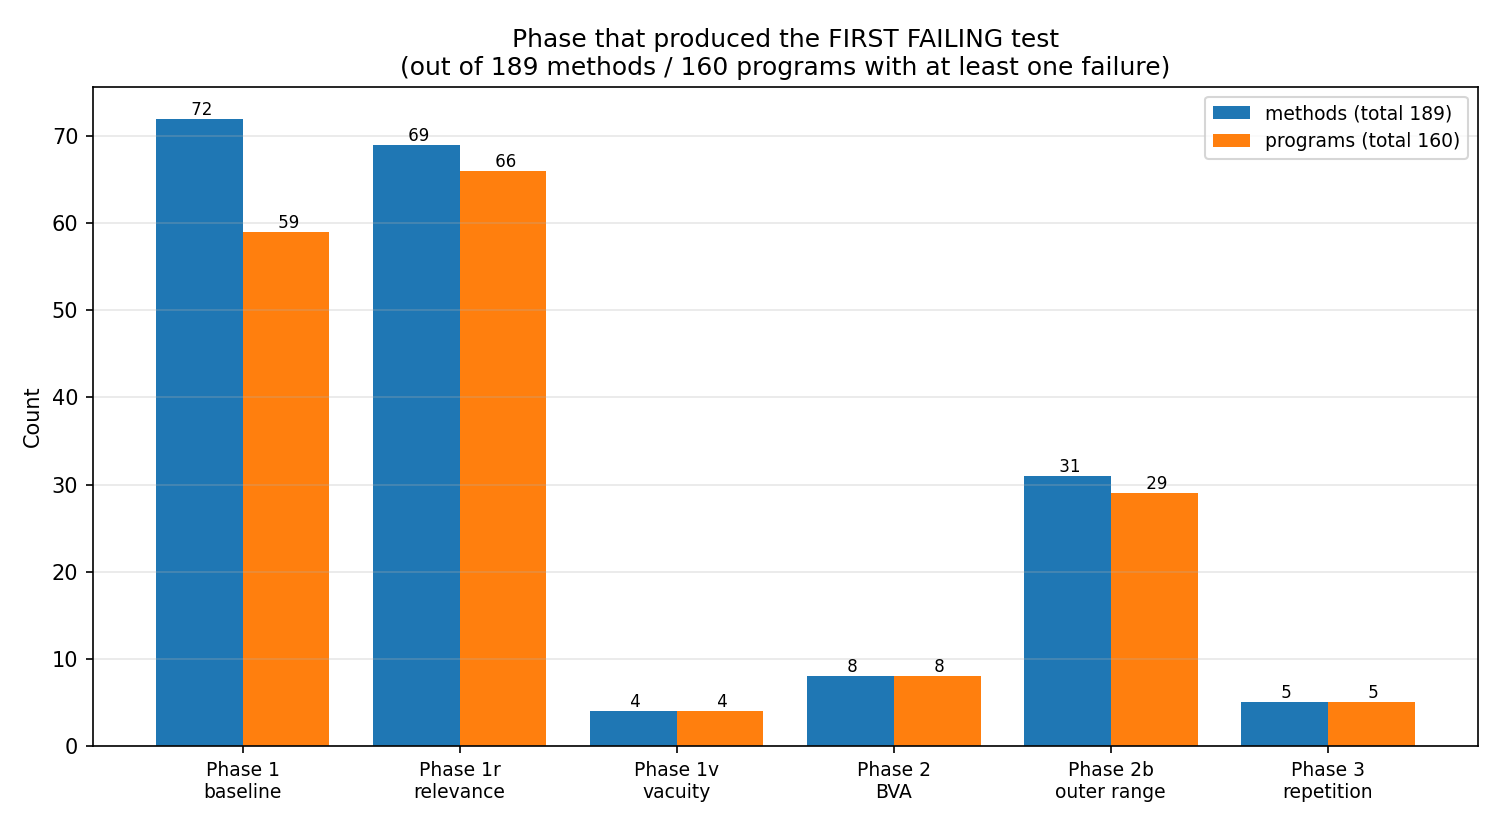
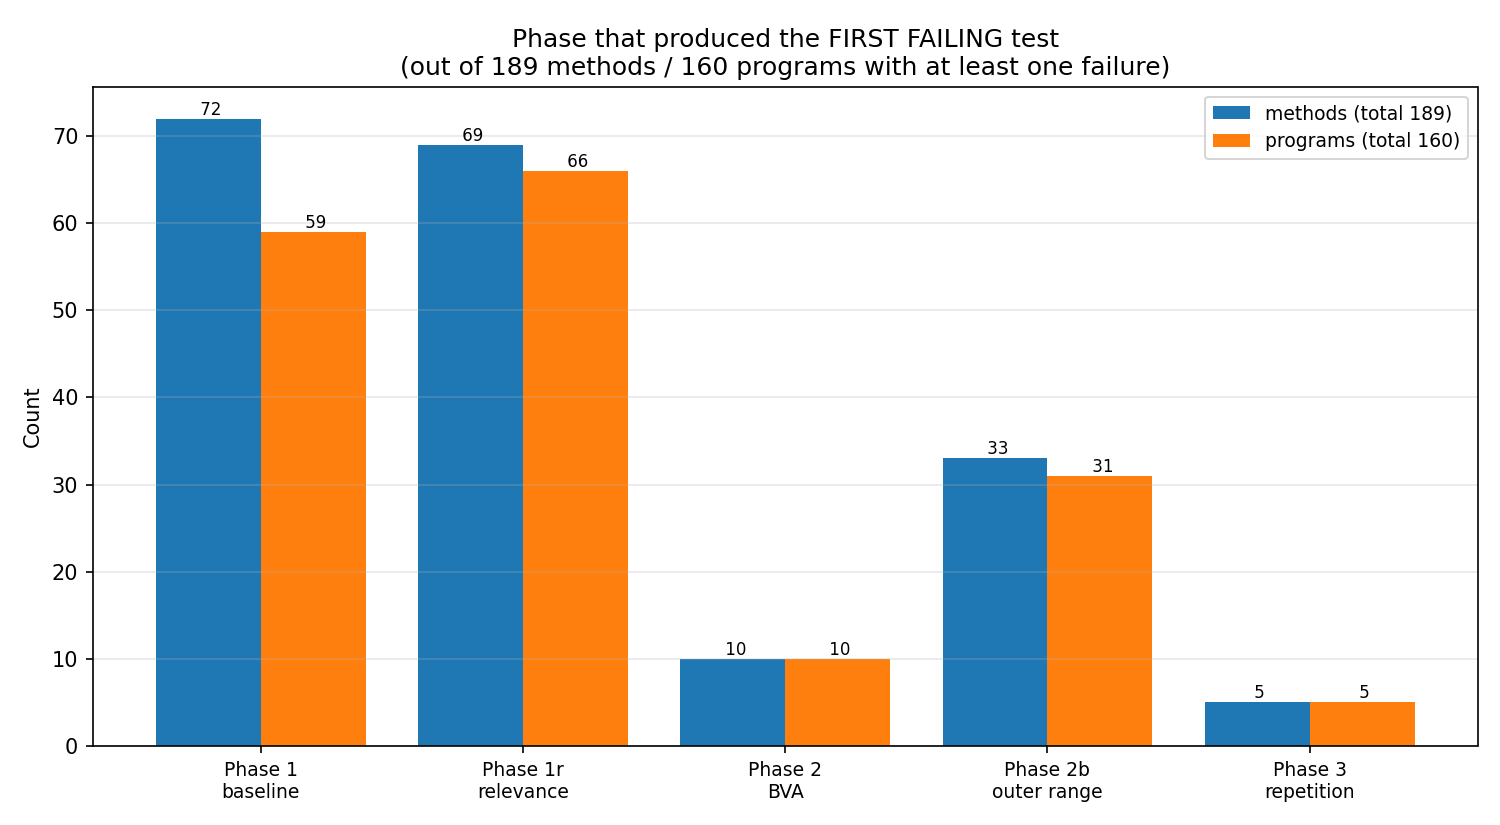
docs: recompute Phase contribution table on the no_vacuity (default) data
The previous Phase contribution table was computed on out_full
(--vacuity ON), which contradicted the methodology section above
stating that the headline 2x2 cells all run with vacuity disabled.
End-users see the no_vacuity numbers, not the full numbers.

Re-running first_fail_phase.py on out_no_vacuity:
* the Phase 1v row disappears (vacuity not run)
* its 4 first-fails redistribute: +2 to Phase 2 BVA (8 -> 10), +2 to
  Phase 2b outer range (31 -> 33)
* total tests grows slightly (4164 -> 4183) as those 102 vacuity tests
  are replaced by the additional Phase 2/2b/3 entries that filled
  their budget slot.

Also clarify in the section intro that the table reflects the default
strategy with vacuity off. Chart regenerated to match.

diff --git a/docs/empirical-evaluation.md b/docs/empirical-evaluation.md
@@ -1,6 +1,6 @@
 # Empirical evaluation
 
-Ablation study on the **buggy_progs** corpus, measuring the contribution of DafnyCBT's two optional refinements (ON by default) — anti-trivial **bias**, and per-literal **relevance check** (Phase 1r) — to mutation kill rate, kill@k, and wall-clock time. Optional features with negletible impact are also discussed in the end.
+Ablation study on the **buggy_progs** corpus, measuring the contribution of DafnyCBT's two optional refinements (ON by default) — anti-trivial **bias**, and per-literal **relevance check** — to mutation kill rate, kill@k, and wall-clock time. Optional features with negletible impact are also discussed in the end.
 
 ## Corpus
 
@@ -31,12 +31,12 @@ A method is "killed at budget k" iff the first failing test among its first k ge
 
 ![Mutation kill curve, per method](kill_curves_per_method.png)
 
-| Strategy | killed | kill@1 | kill@5 | kill@10 | AUC |
-|---|---:|---:|---:|---:|---:|
-| baseline | 177 | 65 | 161 | 172 | 8521 |
-| +bias | 182 | 84 | 170 | 176 | 8797 |
-| +relevance | 186 | 84 | 173 | 181 | 8984 |
-| +bias+rel *(default)* | **190** | **108** | **175** | **184** | **9218** |
+| Strategy | killed | kill@1 | kill@5 | kill@10 | kill@max | AUC |
+|---|---:|---:|---:|---:|---:|---:|
+| baseline | 177 | 65 | 161 | 172 | 177 | 8521 |
+| +bias | 182 | 84 | 170 | 176 | 182 | 8797 |
+| +relevance | 186 | 84 | 173 | 181 | 186 | 8984 |
+| +bias+rel *(default)* | **190** | **108** | **175** | **184** | **190** | **9218** |
 
 **Marginal contribution per refinement**:
 
@@ -70,21 +70,20 @@ Same shape as per-method, scaled to programs (each program has 1–3 methods on 
 
 ## Phase contribution (cost-benefit)
 
-Where do the kills come from? For each method with at least one failing test, the *first failing test*'s phase is recorded; aggregating across the corpus shows the relative contribution of each pipeline phase. The "tests" column is the total count of tests of each phase emitted across the whole corpus; "tests/fail" is the cost-benefit ratio (lower = better).
+Where do the kills come from? For each method with at least one failing test, the *first failing test*'s phase is recorded; aggregating across the corpus shows the relative contribution of each pipeline phase. Numbers below are for the **default `+bias+rel` strategy with vacuity disabled** (the same `no_vacuity` cell in the 2×2 above), so phases reflect what end-users see out of the box. The "tests" column is the total count of tests of each phase emitted across the whole corpus; "tests/fail" is the cost-benefit ratio (lower = better).
 
 ![Phase contribution to first failures](first_fail_phase.png)
 
 | Phase | Methods | %Fail | Programs | Tests | %Tests | Tests/Fail |
 |---|---:|---:|---:|---:|---:|---:|
-| Phase 1 baseline (clause witness) | 72 | 38.1% | 59 | 423 | 10.2% | **5.9** |
+| Phase 1 baseline (clause witness) | 72 | 38.1% | 59 | 423 | 10.1% | **5.9** |
 | Phase 1r relevance | 69 | 36.5% | 66 | 418 | 10.0% | **6.1** |
-| Phase 1v vacuity | 4 | 2.1% | 4 | 102 | 2.4% | 25.5 |
-| Phase 2 BVA (refined-range) | 8 | 4.2% | 8 | 761 | 18.3% | 95.1 |
-| Phase 2b outer range (categorical) | 31 | 16.4% | 29 | 1027 | 24.7% | 33.1 |
-| Phase 3 repetition (seeded variants) | 5 | 2.6% | 5 | 1433 | 34.4% | 286.6 |
-| **Total** | **189** | | | **4164** | | |
+| Phase 2 BVA (refined-range) | 10 | 5.3% | 10 | 798 | 19.1% | 79.8 |
+| Phase 2b outer range (categorical) | 33 | 17.5% | 31 | 1086 | 26.0% | 32.9 |
+| Phase 3 repetition (seeded variants) | 5 | 2.6% | 5 | 1458 | 34.9% | 291.6 |
+| **Total** | **189** | | | **4183** | | |
 
-**Phase 1 + 1r account for 75% of first-fails using 20% of the test budget** — the spec-driven phases are by far the most efficient. Phase 2b's per-clause refined-range pinning produces the next largest slice (16% of first-fails). Phase 3 repetition is the most expensive *and* lowest-yield phase: its 34% of the budget catches just 3% of first-fails, mostly the long tail of inputs whose magnitude / length exceeds Phase 2b's tier set.
+**Phase 1 + 1r account for 75% of first-fails using 20% of the test budget** — the spec-driven phases are by far the most efficient. Phase 2b's per-clause refined-range pinning produces the next largest slice (17% of first-fails). Phase 3 repetition is the most expensive *and* lowest-yield phase: its 35% of the budget catches just 3% of first-fails, mostly the long tail of inputs whose magnitude / length exceeds Phase 2b's tier set.
 
 If `--min-tests` were lowered from 10 to ~5, Phase 3 would shrink dramatically without losing more than ~3% of the kills — a possible knob for budget-constrained settings.
 
